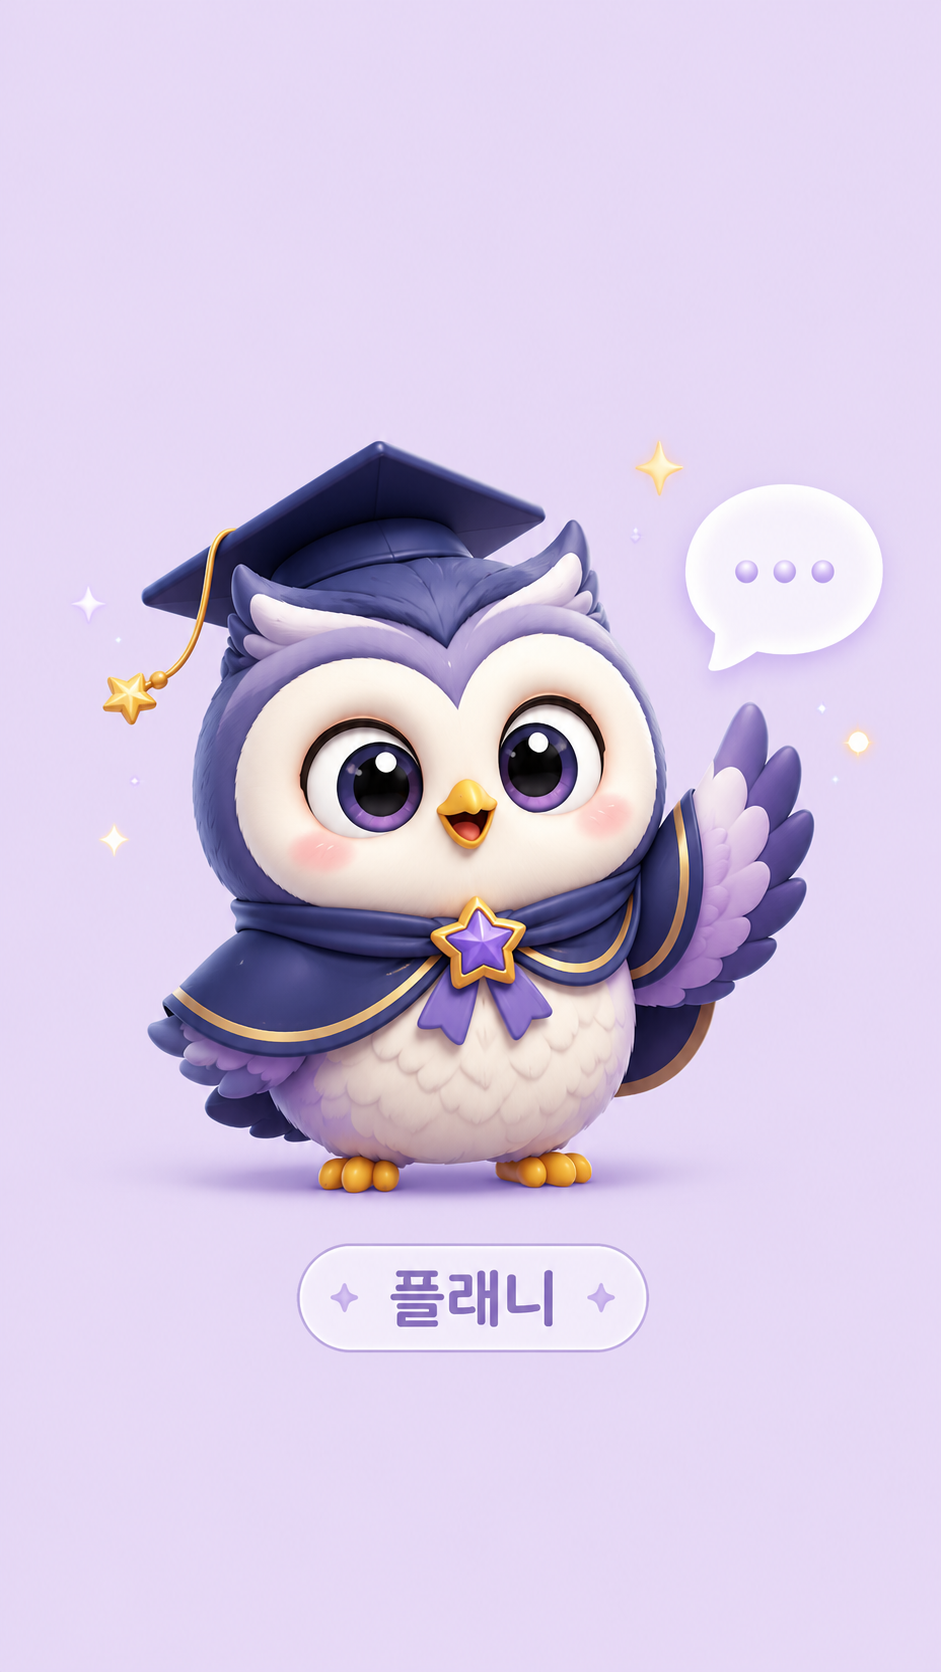
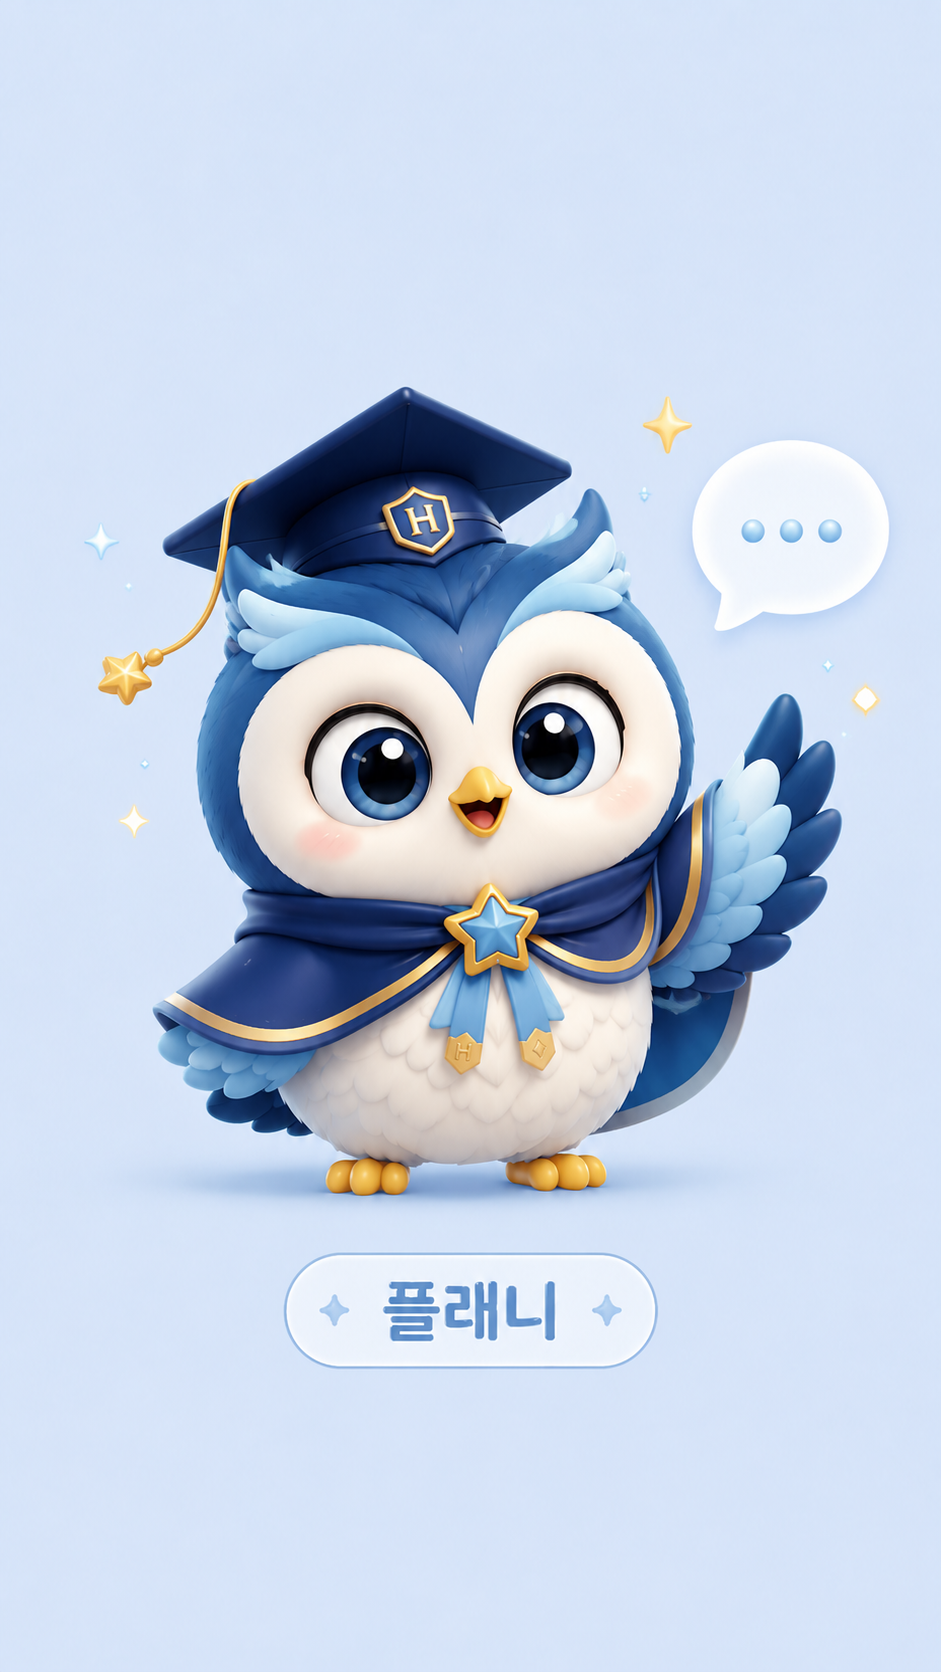
Make Plani chat feel conversational

Changed region(s): [[0.0925, 0.2177, 0.9554, 0.8397], [0.678, 0.2488, 0.7396, 0.311], [0.0925, 0.4665, 0.1541, 0.5287]]

diff --git a/src/styles/global.css b/src/styles/global.css
@@ -1003,11 +1003,74 @@ input, select {
   padding: 9px 10px;
   text-align: left;
 }
-.messages { display: grid; gap: 10px; padding-bottom: 76px; }
-.message { max-width: 88%; border-radius: 12px; padding: 10px 12px; }
+.messages { display: grid; gap: 12px; padding-bottom: 76px; }
+.message {
+  max-width: 94%;
+  display: flex;
+  gap: 8px;
+  align-items: flex-end;
+}
 .message p { margin: 0; line-height: 1.5; }
-.message.assistant { background: #fff; border: 1px solid #e2e8f1; justify-self: start; }
-.message.user { background: #1d2f6f; color: #fff; justify-self: end; }
+.message.assistant {
+  justify-self: start;
+}
+.message.user {
+  justify-self: end;
+  justify-content: flex-end;
+}
+.messageBubble {
+  position: relative;
+  border-radius: 16px;
+  padding: 10px 12px;
+}
+.message.assistant .messageBubble {
+  background: #fff;
+  border: 1px solid #dbe8f8;
+  color: #26324b;
+  border-bottom-left-radius: 5px;
+  box-shadow: 0 6px 14px rgba(38, 79, 132, .08);
+}
+.message.assistant .messageBubble::before {
+  content: "";
+  position: absolute;
+  left: -7px;
+  bottom: 9px;
+  width: 12px;
+  height: 12px;
+  background: #fff;
+  border-left: 1px solid #dbe8f8;
+  border-bottom: 1px solid #dbe8f8;
+  transform: rotate(45deg);
+}
+.message.user .messageBubble {
+  background: #1d2f6f;
+  color: #fff;
+  border-bottom-right-radius: 5px;
+}
+.miniPlaniAvatar {
+  width: 38px;
+  height: 38px;
+  border-radius: 50%;
+  flex: 0 0 auto;
+  overflow: hidden;
+  border: 2px solid #d8ecff;
+  background: #eaf5ff;
+  box-shadow: 0 4px 10px rgba(29, 47, 111, .12);
+}
+.miniPlaniAvatar img {
+  width: 100%;
+  height: 100%;
+  object-fit: cover;
+  object-position: center 67%;
+}
+.miniPlaniAvatar span {
+  width: 100%;
+  height: 100%;
+  display: grid;
+  place-items: center;
+  color: #1d2f6f;
+  font-weight: 900;
+}
 .sourceCards { display: grid; gap: 6px; margin-top: 10px; }
 .sourceCards button {
   border: 0;
@@ -1041,21 +1104,21 @@ input, select {
   letter-spacing: 0;
 }
 .planiHeader span {
-  color: #7a6ca7;
+  color: #416a9f;
   font-size: 12px;
   font-weight: 800;
 }
 .planiHero {
   position: relative;
   min-height: 286px;
-  border: 1px solid #e3dbf7;
+  border: 1px solid #d7e9fb;
   border-radius: 14px;
   padding: 14px;
   overflow: hidden;
   background:
     radial-gradient(circle at 18% 28%, rgba(255, 255, 255, .92), transparent 24%),
-    linear-gradient(180deg, #f2eaff 0%, #f9f7ff 100%);
-  box-shadow: 0 8px 24px rgba(93, 75, 150, .12);
+    linear-gradient(180deg, #eaf5ff 0%, #f7fbff 100%);
+  box-shadow: 0 8px 24px rgba(40, 88, 143, .12);
 }
 .planiHero::before,
 .planiHero::after {
@@ -1069,9 +1132,9 @@ input, select {
 .planiHero::after { right: 42px; top: 142px; color: #9d85d8; }
 .planiSpeech {
   position: absolute;
-  right: 16px;
-  top: 16px;
-  max-width: 178px;
+  right: 18px;
+  top: 48px;
+  max-width: 160px;
   border-radius: 18px 18px 18px 6px;
   padding: 10px 12px;
   background: #fff;
@@ -1083,10 +1146,21 @@ input, select {
   animation: speechIn .35s ease both;
   z-index: 2;
 }
+.planiSpeech::after {
+  content: "";
+  position: absolute;
+  left: 20px;
+  bottom: -7px;
+  width: 14px;
+  height: 14px;
+  background: #fff;
+  transform: rotate(45deg);
+  box-shadow: 4px 4px 8px rgba(55, 42, 100, .04);
+}
 .planiMascotButton {
   position: absolute;
   left: 50%;
-  top: 34px;
+  top: 40px;
   transform: translateX(-50%);
   width: 205px;
   height: 205px;
@@ -1101,7 +1175,7 @@ input, select {
   object-fit: cover;
   object-position: center 67%;
   border-radius: 50%;
-  background: #eee5ff;
+  background: #eaf5ff;
   filter: drop-shadow(0 12px 18px rgba(40, 31, 87, .22));
 }
 .planiFallback {
@@ -1126,10 +1200,10 @@ input, select {
   padding: 10px 12px;
   border-radius: 999px;
   background: rgba(255, 255, 255, .88);
-  border: 1px solid rgba(145, 123, 199, .32);
+  border: 1px solid rgba(91, 142, 199, .32);
 }
 .planiBadge strong {
-  color: #8065c7;
+  color: #416a9f;
   font-size: 18px;
 }
 .planiBadge span {
@@ -1143,10 +1217,10 @@ input, select {
   left: 14px;
   top: 14px;
   min-height: 34px;
-  border: 1px solid #ded3f5;
+  border: 1px solid #d7e9fb;
   border-radius: 999px;
   background: rgba(255, 255, 255, .86);
-  color: #6d57ad;
+  color: #416a9f;
   display: inline-flex;
   align-items: center;
   gap: 5px;

diff --git a/src/pages/Chat.jsx b/src/pages/Chat.jsx
@@ -107,13 +107,20 @@ export default function Chat({ chat, setChat, user, metrics, events = [] }) {
         )}
         {chat.map((message, index) => (
           <div key={`${message.role}-${index}`} className={`message ${message.role}`}>
-            {message.role === 'assistant' && <strong className="messageLabel">플래니</strong>}
-            <p>{message.text}</p>
-            {!!message.sources.length && (
-              <div className="sourceCards">
-                {message.sources.map((item) => <button key={item} onClick={() => setSource(item)}>{item}</button>)}
+            {message.role === 'assistant' && (
+              <div className="miniPlaniAvatar">
+                {!imageFailed ? <img src={planiMascot} alt="" /> : <span>플</span>}
               </div>
             )}
+            <div className="messageBubble">
+              {message.role === 'assistant' && <strong className="messageLabel">플래니가 말해요</strong>}
+              <p>{message.text}</p>
+              {!!message.sources.length && (
+                <div className="sourceCards">
+                  {message.sources.map((item) => <button key={item} onClick={() => setSource(item)}>{item}</button>)}
+                </div>
+              )}
+            </div>
           </div>
         ))}
       </div>
